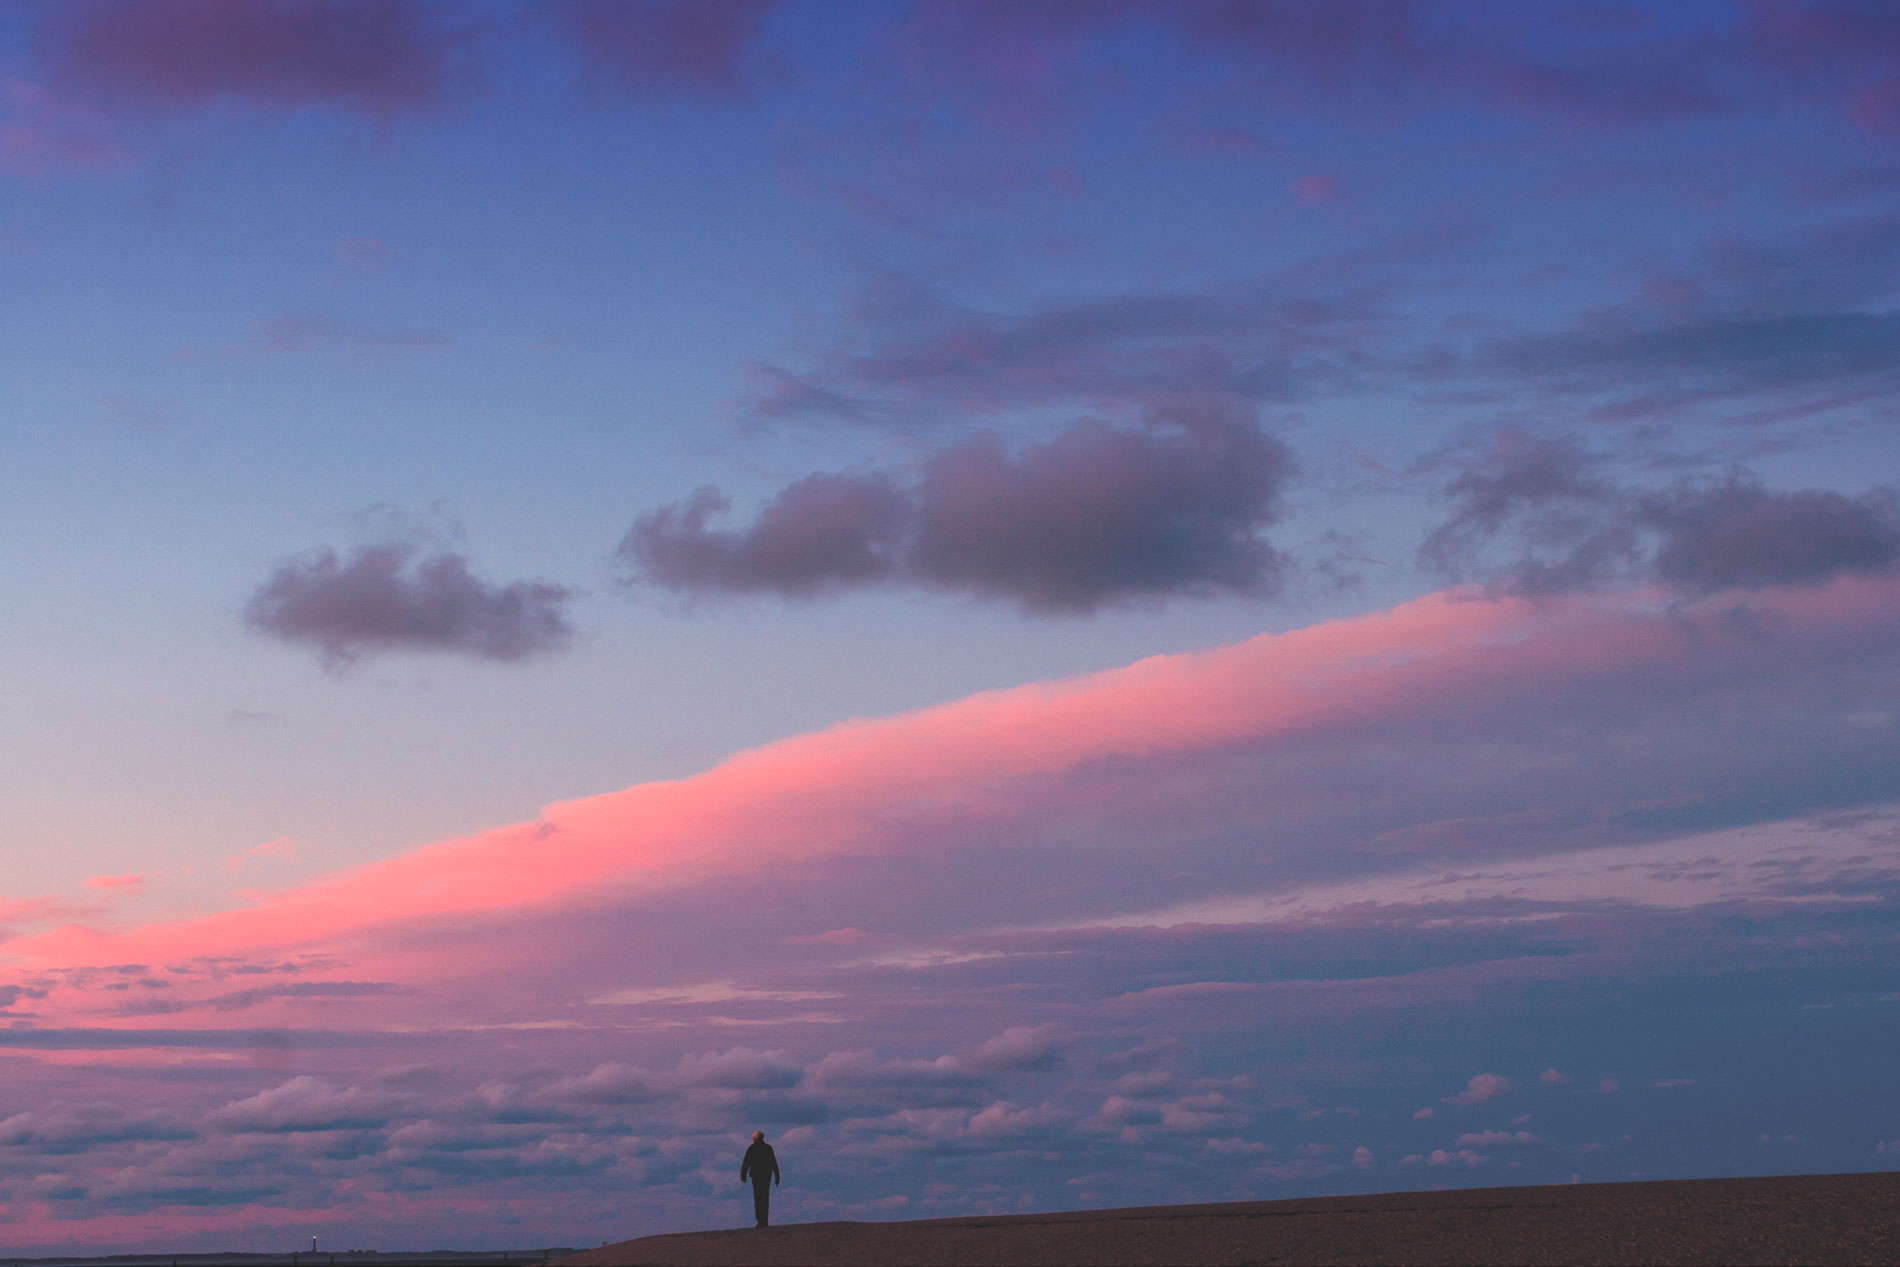
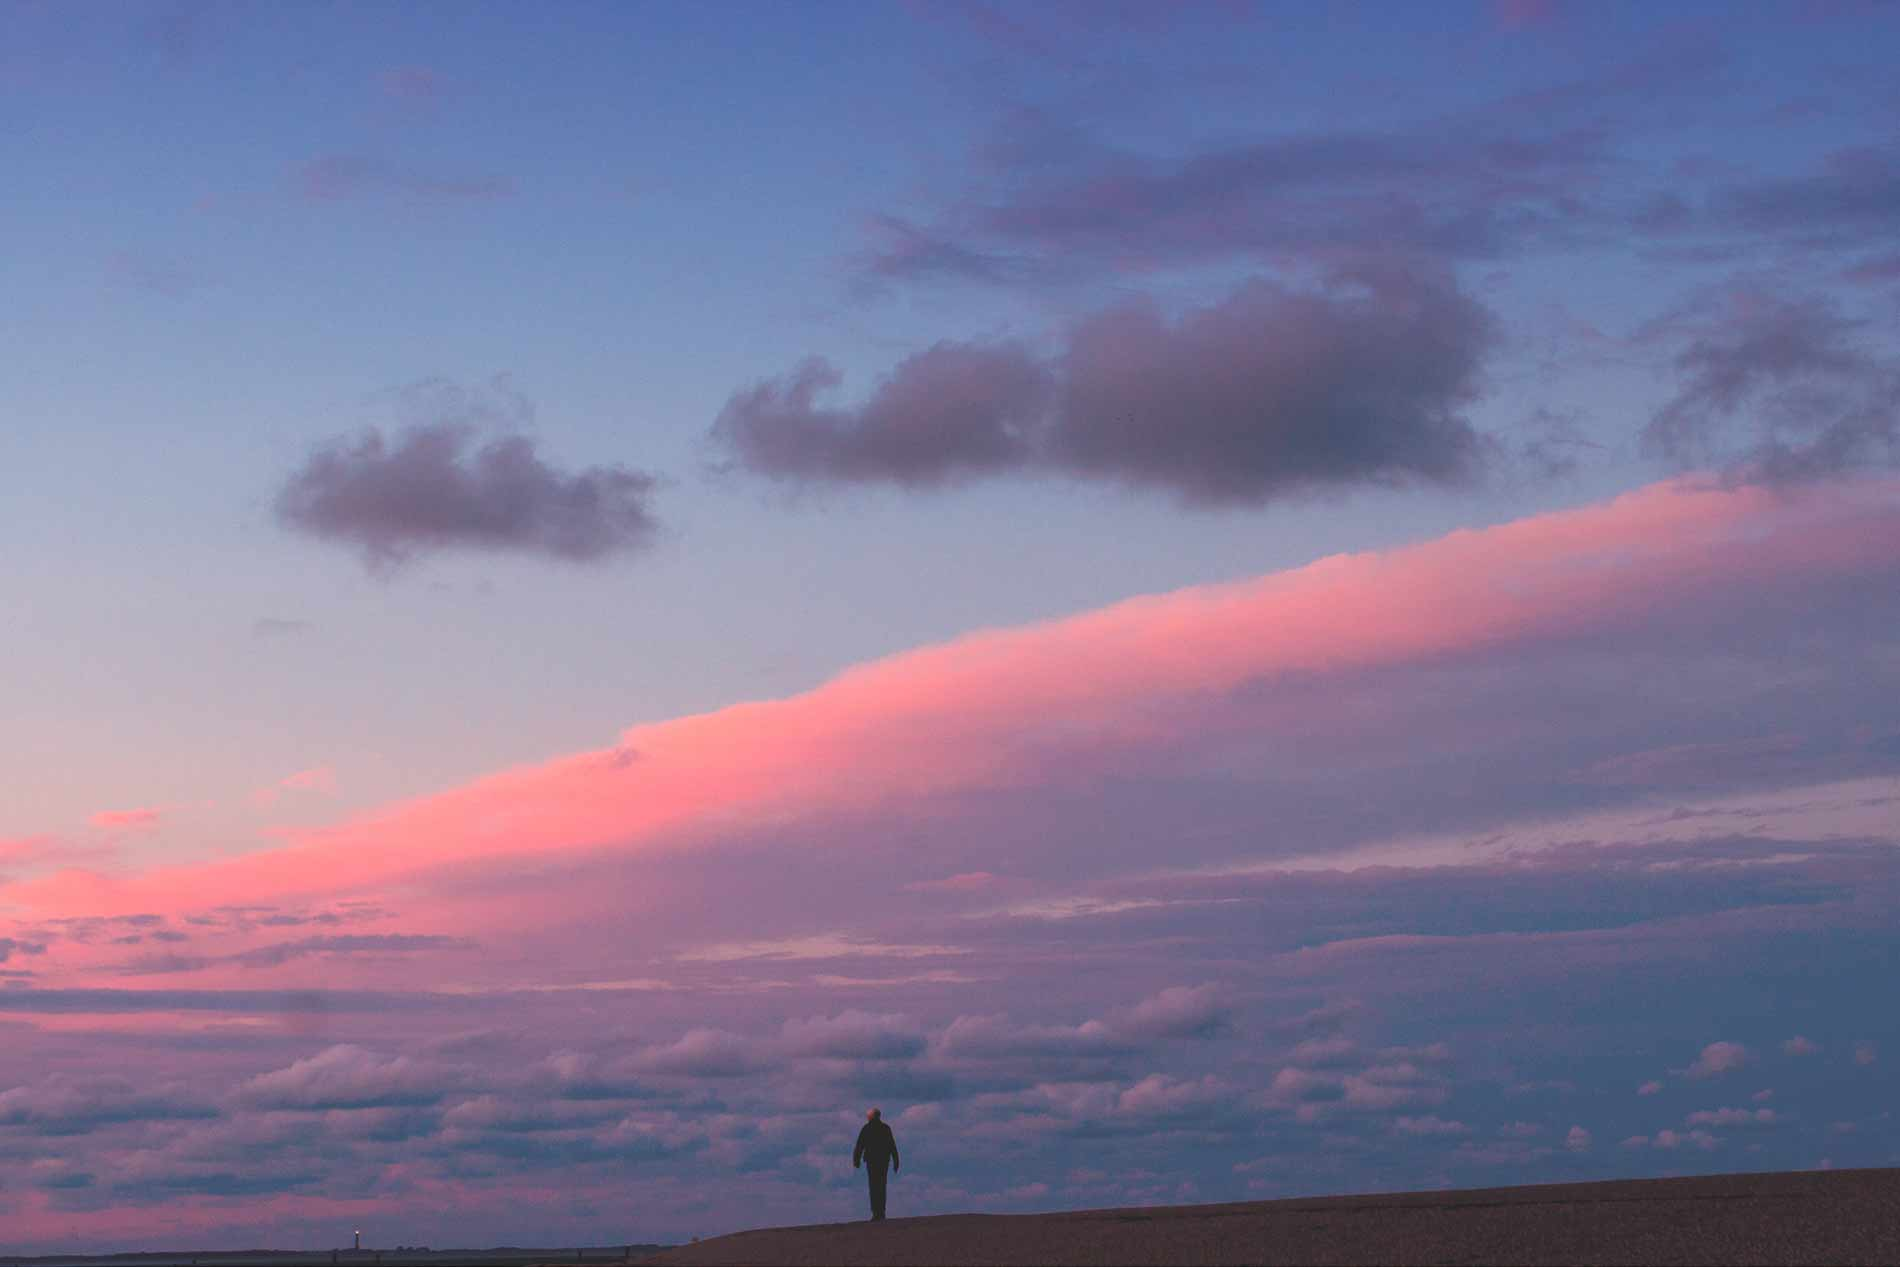
image optimized, iOS Tap via jQuery

diff --git a/index.html b/index.html
@@ -35,6 +35,25 @@
     <script src="https://oss.maxcdn.com/libs/respond.js/1.4.2/respond.min.js"></script>
     <![endif]-->
 
+    <script src="https://ajax.googleapis.com/ajax/libs/jquery/2.1.3/jquery.min.js"></script>
+    <script  type="text/JavaScript">
+
+        $(document).ready(function () {
+            console.log("ready");
+            //console.log($(this).css("opacity"));
+            $(".portfolio-box-caption").click(function() {
+                if($(this).css("opacity")==0){
+                    $(this).css("opacity", 1);
+//                    $(this).data("visible",1);
+                }else{
+                    $(this).css("opacity", 0);
+//                    $(this).data("visible",0);
+                }
+
+            });
+        });
+    </script>
+
 </head>
 
 <body id="page-top">
@@ -163,6 +182,24 @@
         </div>
     </div>
 </section>
+<section id="video">
+    <div class="container">
+        <div class="row">
+            <div class="col-lg-12 text-center">
+                <h2 class="section-heading">Sekilas BCP</h2>
+                <hr class="primary">
+            </div>
+        </div>
+    </div>
+    <div class="container">
+        <div class="col-lg-12 text-center">
+            <video width="500" height="350" controls>
+                <source src="video/bcp.mp4" type="video/mp4">
+                Your browser does not support the video tag.
+            </video>
+        </div>
+    </div>
+</section>
 <section id="speakers">
     <div class="container">
         <div class="row">
@@ -178,7 +215,7 @@
         <div class="row no-gutter">
             <div class="col-md-2 col-md-offset-1">
                 <a class="portfolio-box">
-                    <img src="img/portfolio/rahmiati.png" class="img-responsive" alt="">
+                    <img src="img/portfolio/rahmiati.jpg" class="img-responsive" alt="">
                     <div class="portfolio-box-caption">
                         <div class="portfolio-box-caption-content">
                             <div class="project-category text-faded-white">

diff --git a/css/creative.css b/css/creative.css
@@ -291,6 +291,7 @@ header .header-content .header-content-inner p {
     position: relative;
     margin: 0 auto;
     max-width: 650px;
+    cursor: pointer;
 }
 
 .portfolio-box .portfolio-box-caption {
